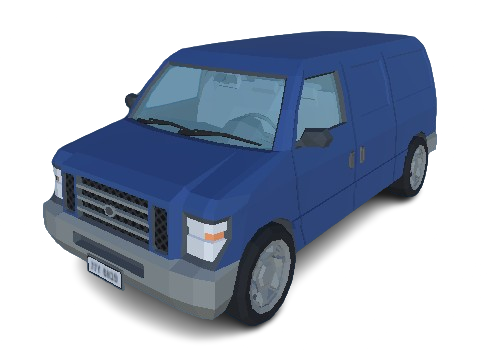
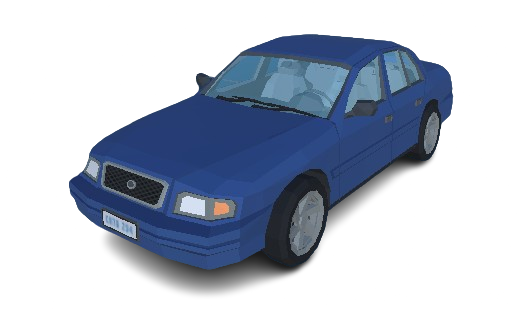
a

diff --git a/zikzakk2019/Assets/Script/car.cs b/zikzakk2019/Assets/Script/car.cs
@@ -1,0 +1,54 @@
+using System.Collections;
+using System.Collections.Generic;
+using UnityEngine;
+using UnityEngine.UI;
+public class car : MonoBehaviour
+{
+    public Image[] cars;
+    void Start()
+    {
+  
+    }
+
+    void Update()
+    {
+        switch (selectedCar.instance.selectedCarValue)
+        {
+            case 1:
+                cars[0].gameObject.SetActive(true);
+                cars[1].gameObject.SetActive(false);
+                cars[2].gameObject.SetActive(false);
+                cars[3].gameObject.SetActive(false);
+                cars[4].gameObject.SetActive(false);
+                break;
+            case 2:
+                cars[0].gameObject.SetActive(false);
+                cars[1].gameObject.SetActive(true);
+                cars[2].gameObject.SetActive(false);
+                cars[3].gameObject.SetActive(false);
+                cars[4].gameObject.SetActive(false);
+                break;
+            case 3:
+                cars[0].gameObject.SetActive(false);
+                cars[1].gameObject.SetActive(false);
+                cars[2].gameObject.SetActive(true);
+                cars[3].gameObject.SetActive(false);
+                cars[4].gameObject.SetActive(false);
+                break;
+            case 4:
+                cars[0].gameObject.SetActive(false);
+                cars[1].gameObject.SetActive(false);
+                cars[2].gameObject.SetActive(false);
+                cars[3].gameObject.SetActive(true);
+                cars[4].gameObject.SetActive(false);
+                break;
+            case 5:
+                cars[0].gameObject.SetActive(false);
+                cars[1].gameObject.SetActive(false);
+                cars[2].gameObject.SetActive(false);
+                cars[3].gameObject.SetActive(false);
+                cars[4].gameObject.SetActive(true);
+                break;
+        }
+    }
+}
